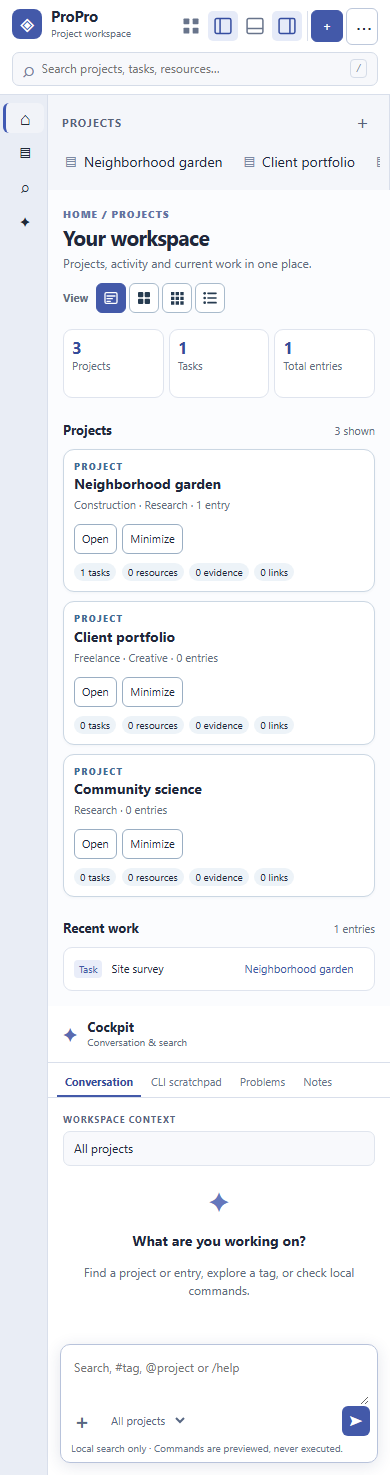
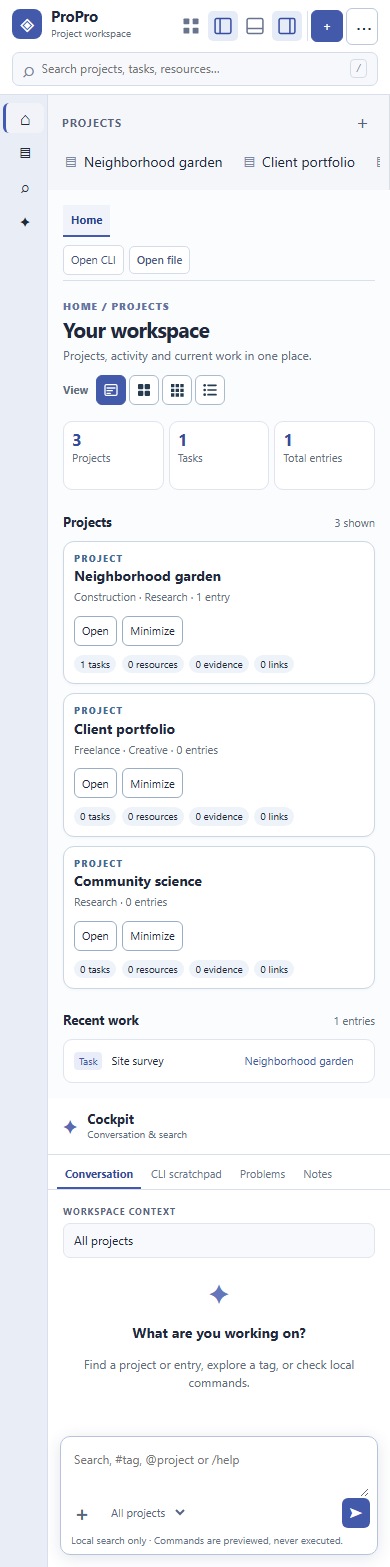
feat: open projects and local files in center workspace tabs
Change-Level: DRIVE
Dev-Docs: updated
Validation: 2 model, 9 browser PASS; focused 390px tab and sidebar check PASS; planning validation PASS

diff --git a/styles.css b/styles.css
@@ -71,6 +71,7 @@ body { background:#f5f6fa; }
 .cockpit-workbench__activity-button { min-height:38px; font-size:19px; border-radius:6px; }
 .cockpit-workbench__activity-button[data-activity=home] span { transform:scale(1.3); }
 #explorer.cockpit-workbench__explorer { padding:12px 9px; background:#f4f6fa; }
+#explorer[hidden] { display:none!important; }
 .explorer-head { display:flex; align-items:center; justify-content:space-between; padding:1px 5px 8px; }
 #explorer h2 { margin:0; font-size:11px; text-transform:uppercase; letter-spacing:.09em; color:#57637a; }
 .explorer-head button { padding:0; width:25px; height:25px; border:0; background:transparent; color:#57637a; font-size:18px; }
@@ -189,3 +190,25 @@ body { background:#f5f6fa; }
   #workbench.context-bottom .conversation-view .context-content { grid-column:1; grid-row:1; }
   #workbench.context-bottom .conversation-view .composer { grid-column:2; grid-row:1; }
 }
+.editor-tabs { display:flex; align-items:stretch; gap:8px; min-width:0; margin:-8px 0 18px; border-bottom:1px solid var(--border); }
+#editor-tab-list { display:flex; flex:1; min-width:0; gap:2px; overflow-x:auto; }
+.editor-tab-item { display:flex; flex:none; align-items:center; border-bottom:2px solid transparent; }
+.editor-tab-item:has([aria-selected="true"]) { border-bottom-color:#4359a9; background:#f1f3fa; }
+.editor-tab-item > button { min-height:34px; padding:5px 8px; border:0; border-radius:0; background:transparent; color:#566278; font-size:11px; white-space:nowrap; }
+.editor-tab-item > button[aria-selected="true"] { color:#263e91; font-weight:700; }
+.editor-tab-item .close-editor-tab { min-width:24px; padding:4px; font-size:16px; }
+.editor-actions { display:flex; align-items:center; gap:5px; flex:none; }
+.editor-actions > button,.open-file-button { display:flex; align-items:center; justify-content:center; min-height:28px; padding:4px 7px; border:1px solid #d4dcea; border-radius:5px; background:#fff; color:#43527a; cursor:pointer; font-size:11px; white-space:nowrap; }
+.open-file-button { position:relative; overflow:hidden; }
+.open-file-button input { position:absolute; inset:0; opacity:0; cursor:pointer; width:100%; }
+.open-file-button:focus-within { outline:2px solid var(--blue); }
+#dashboard-view[hidden],#detail[hidden],#workspace-extra[hidden] { display:none!important; }
+#workspace-extra { min-height:280px; }
+#workspace-extra h2 { margin:4px 0 6px; font-size:20px; }
+#workspace-cli-form { max-width:650px; margin-top:20px; }
+#workspace-cli-form label { display:block; margin-bottom:7px; font-size:12px; font-weight:600; }
+#workspace-cli-form input { flex:1; min-width:0; padding:8px 10px; border:1px solid #c9d2e1; border-radius:6px; background:#fff; }
+#workspace-cli-output { display:block; max-width:650px; min-height:45px; margin-top:15px; padding:12px; border:1px solid #e0e5ee; border-radius:7px; background:#fff; font-size:12px; }
+.workspace-text { min-height:300px; max-height:70vh; overflow:auto; padding:16px; border:1px solid #dfe4ee; border-radius:7px; background:#fff; white-space:pre-wrap; overflow-wrap:anywhere; font:12px/1.55 Consolas,monospace; }
+.workspace-pdf { display:block; width:100%; height:70vh; border:1px solid #dfe4ee; border-radius:7px; background:#fff; }
+@media(max-width:700px) { .editor-tabs { flex-wrap:wrap; margin-top:0; } #editor-tab-list { flex-basis:100%; } .editor-actions { padding-bottom:5px; } }

diff --git a/docs/PROP-CKP-001B-IMPLEMENTATION.md b/docs/PROP-CKP-001B-IMPLEMENTATION.md
@@ -74,3 +74,9 @@ The conversation pane now contains four keyboard-accessible views: Conversation,
 This slice does not connect a system terminal, email, calendar or external widget. Those need explicit provider, permission and persistence contracts before pinning. Arbitrary placement of every view into every region, drag reorder and detached windows remain future work.
 
[1 lines of base64/hex data omitted]
+
+### Center editor and viewer tabs — 2026-11-05
+
+Owner clarification separates the central work area from the movable surrounding panes. ProPro now keeps Home as a center tab; opening a project activates its own center tab. Open CLI creates a separate local command-preview tab without relocating or replacing the bottom panel. Open file accepts local text, Markdown, selected code formats and PDF for a read-only center preview. Text is inserted as text, never executed or interpreted as HTML; PDFs use a browser object URL that is revoked when the tab closes. File contents are held only for this page session, with no upload or project-data mutation. Tabs support selection, close actions and keyboard arrow/Home/End navigation. Project records retain their version 1 schema. `docs/screenshots/propro-editor-tabs-1280.png` and `docs/screenshots/propro-editor-tabs-390.png` are running captures. Browser checks cover project tabs, CLI draft retention between tabs, local file display, script-text non-execution, close behavior, narrow layout and project-data isolation.
+
+The left activity rail, expandable Explorer, bottom utility panel and right conversation panel remain separate from center work tabs. This slice does not provide a live terminal, writable document editor, connected agent session or web-page tab; those require host session/file/provider contracts, save and recovery rules, and permission review. The previous tabbed utility panel is still a panel view, not the implementation of the main editor area.
